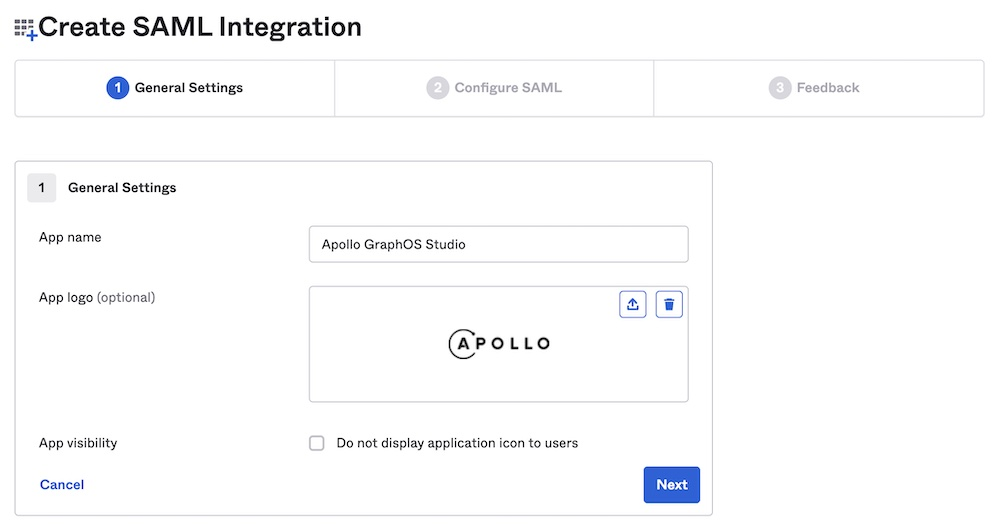
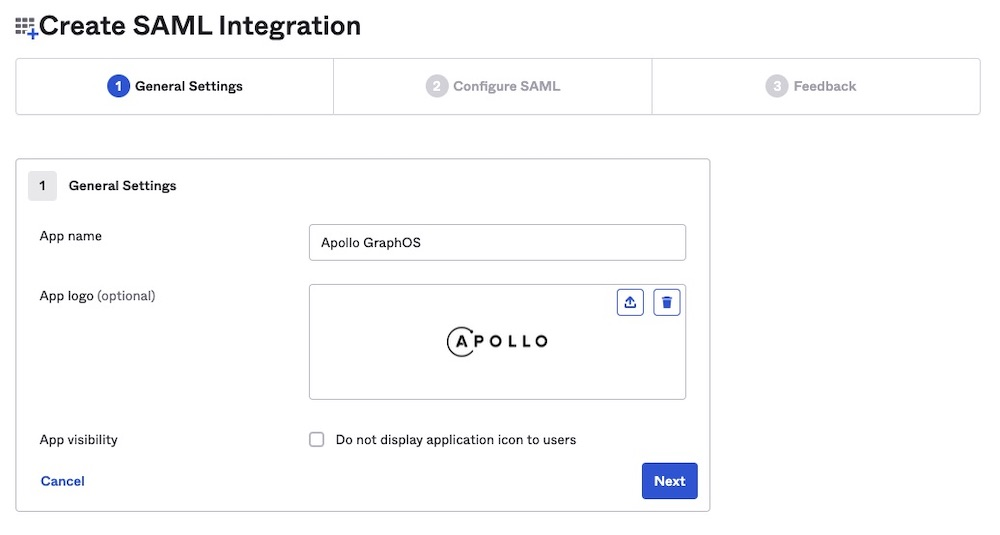
Changes per discussion with Stephen

diff --git a/src/content/graphos/sso/azure-ad-integration-guide.md b/src/content/graphos/sso/azure-ad-integration-guide.md
@@ -13,7 +13,7 @@ This guide walks through configuring Azure Active Directory (Azure AD) as your A
 1. Go to your [Azure Portal](http://portal.azure.com/) and then navigate to **Azure Active Directory**.
 2. In the left pane, select **App Registrations**. Then in the top ribbon click **+ New Registration**.
 3. On the **Register an application** page, provide the following information:
-   - Provide a friendly name for the PingOne client (e.g., `Apollo GraphOS Studio`).
+   - Provide a friendly name for the PingOne client (such as `Apollo GraphOS` or `PingOneConnect`).
    - Under **Supported account types**, select which Microsoft account types will have access.
    - Leave **Redirect URI** empty. You'll provide this information later.  
     
@@ -23,7 +23,7 @@ This guide walks through configuring Azure Active Directory (Azure AD) as your A
       class="screenshot"
     />
 
-    Then click **Create**.
+    Then click **Register**.
 
 ## 2. Retrieve your endpoint URL and client ID
 

diff --git a/src/content/graphos/sso/okta-integration-guide.md b/src/content/graphos/sso/okta-integration-guide.md
@@ -27,7 +27,7 @@ The **Create SAML Integration** dialog includes multiple steps:
 
 1. In the **General Settings** step, provide the following values:
 
-    - **App name**: `Apollo GraphOS Studio`  
+    - **App name**: `Apollo GraphOS`  
     - **App logo**: [Apollo logo](../img/sso/apollo-sk-logo.jpg) (optional)
     
     <img
